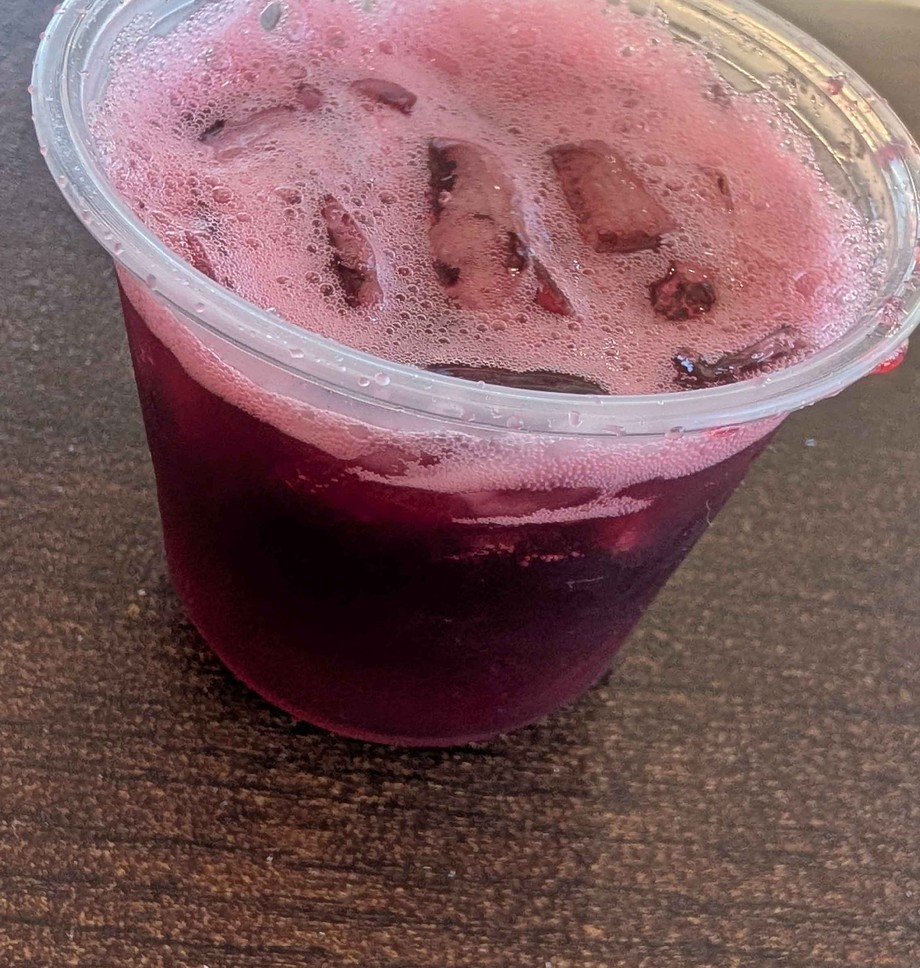
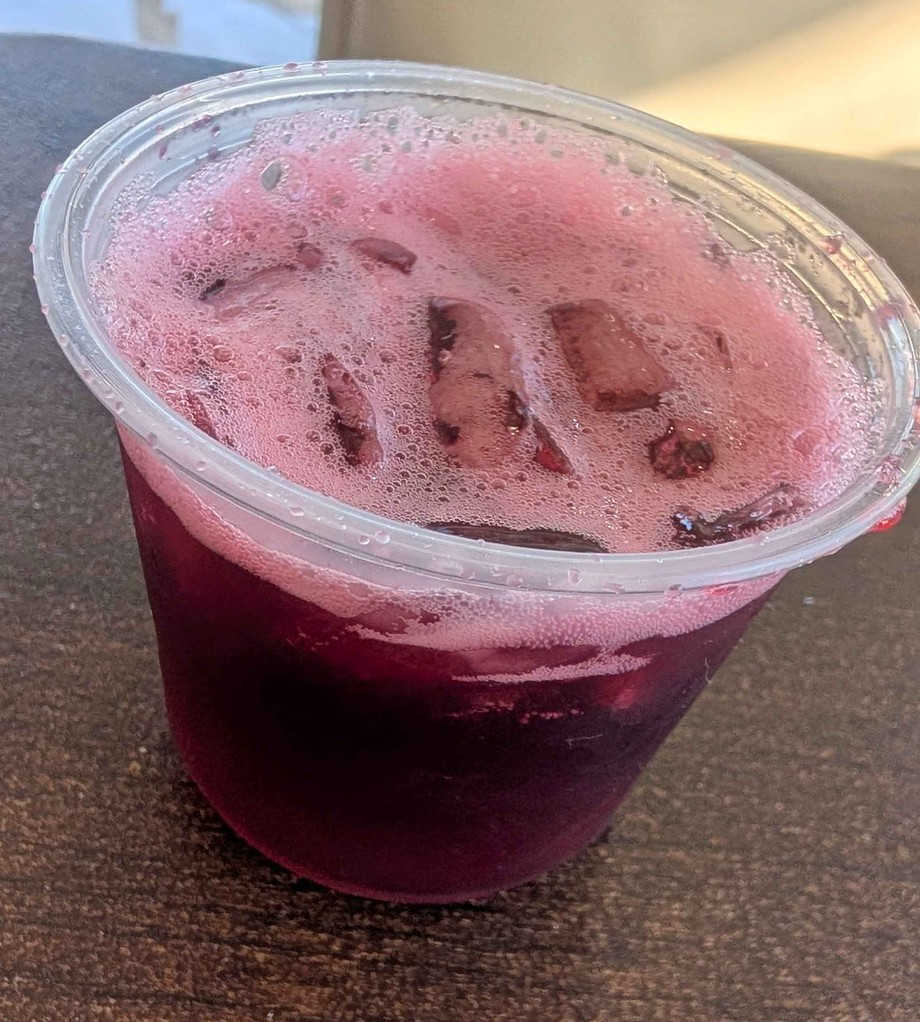
fix(tv): drop letterbox scale; pan cup down full-bleed
Scale left black bars — cover-only crop + object-position 22%
so cup sits lower with more headroom while staying edge-to-edge.

diff --git a/html-menus/templates/tv-screen3.html b/html-menus/templates/tv-screen3.html
@@ -620,12 +620,10 @@
     display: block;
     background: #000;
   }
-  /* TEMP full-bleed: zoom out a hair + shift subject down in frame */
+  /* TEMP full-bleed: looser crop asset; pan so cup sits lower (no scale = no letterbox) */
   .sharbat-card .sharbat-photo.fit-cover img {
     object-fit: cover;
-    object-position: center 28%;
-    transform: scale(0.92) translateY(6%);
-    transform-origin: center center;
+    object-position: center 22%;
   }
   .sharbat-card .sharbat-overlay {
     position: absolute;
